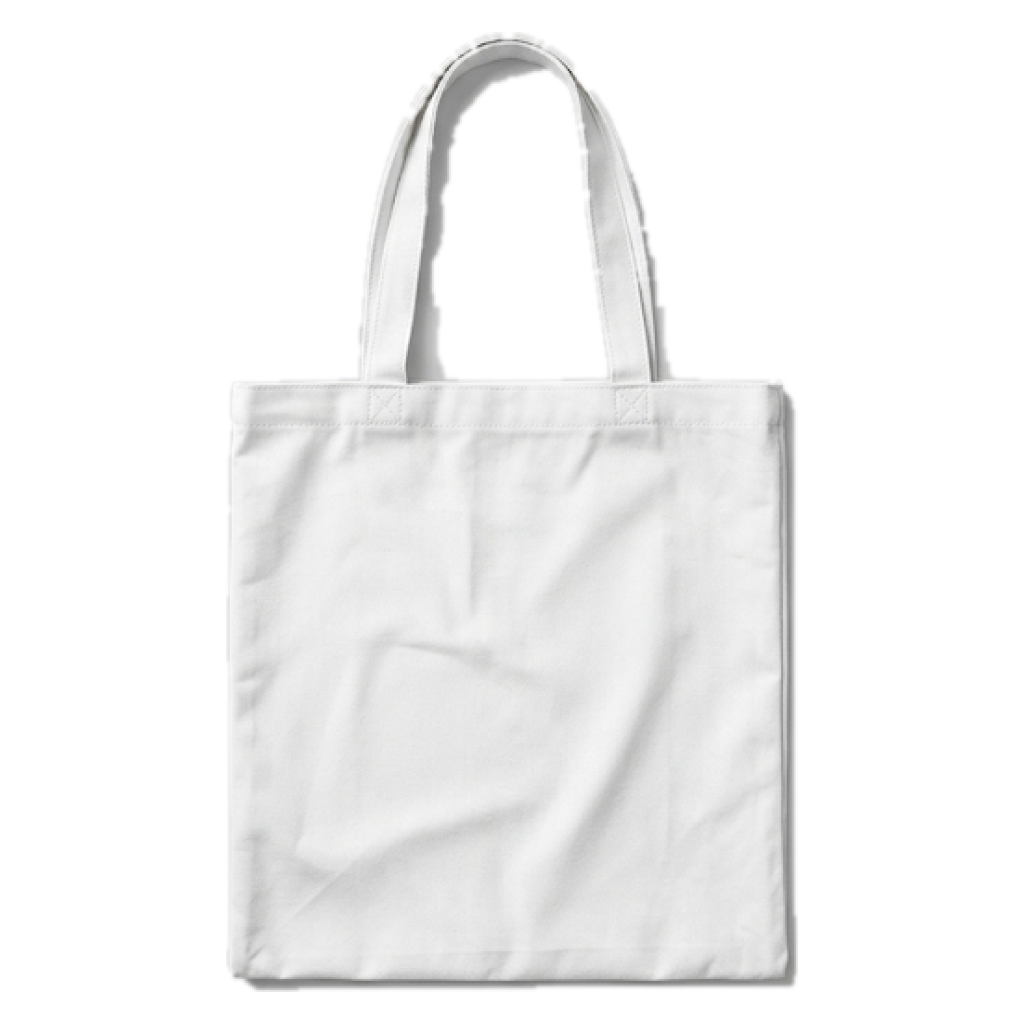
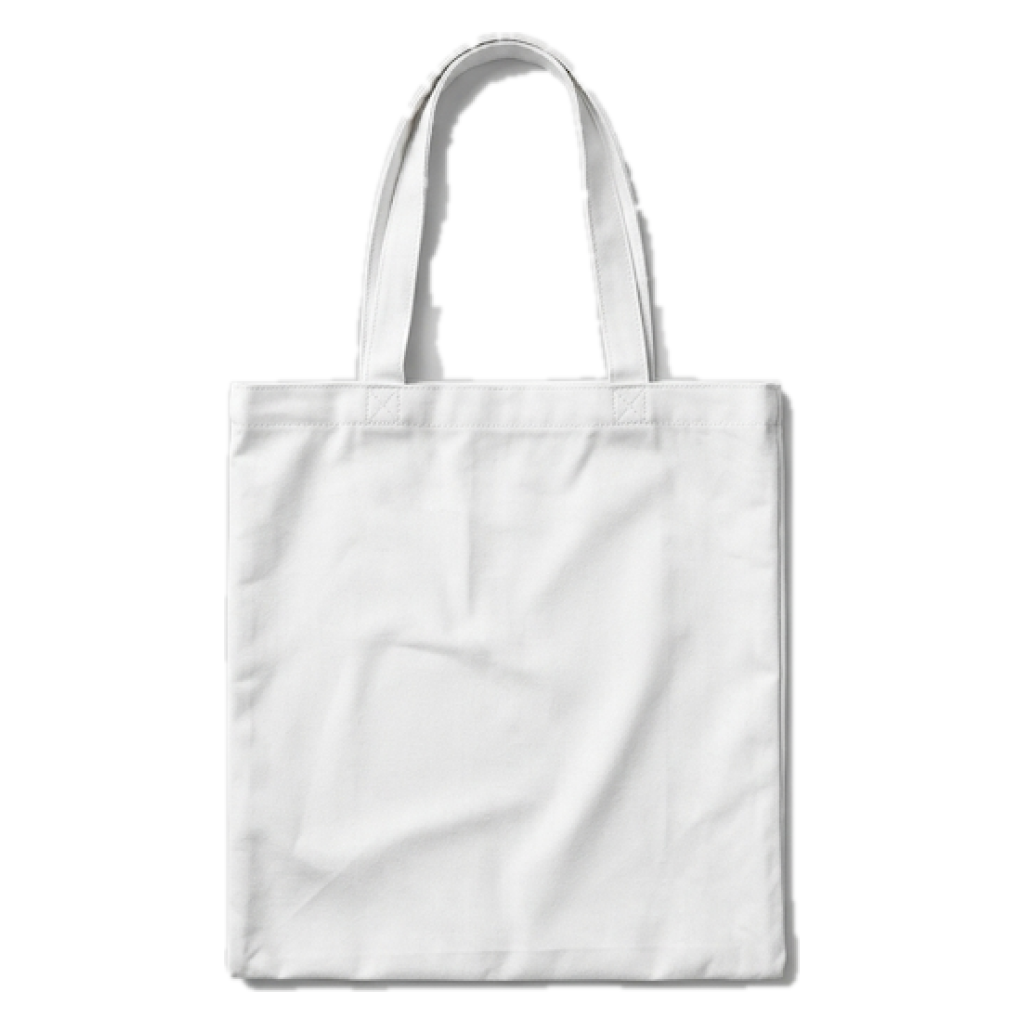
Studio: photo side views, raglan back, ringer front/back; remove.bg-guided cutouts
- Left/right sleeve views use the side photos for crew, pocket tees, henley,
  V-neck and polo, with colourable sleeve and cuff zones and a print guide.
- Raglan back and ringer front/back are photo views; no style relies on the
  drawn fallback any more.
- Cut-out script accepts remove.bg results ("<source>-removebg-preview.png" in
  Downloads or <source dir>/guides) as a guide to clear backdrop wedges while
  keeping its own full-resolution edges; backdrop tolerance tightened. Against
  the remove.bg reference the polo back matches 99.2% (hoodie front 98.6%).

diff --git a/lib/models/garment_style.dart b/lib/models/garment_style.dart
@@ -124,9 +124,6 @@ const _strap = ColorZone('strap', 'Strap', trim: false);
 const _handles = ColorZone('handles', 'Handles', trim: false);
 const _hem = ColorZone('hem', 'Top hem');
 
-StyleView _vFront(String id) => StyleView.vector(VectorGarments.front(id)!);
-StyleView _vBack(String id) => StyleView.vector(VectorGarments.back(id)!);
-
 final _crewFront = <String, ZonePath>{
   'sleeves': ZonePath(
     polygons: [
@@ -696,6 +693,120 @@ final _toteZones = <String, ZonePath>{
 
 const _dir = 'assets/images/garments';
 
+// ── Raglan back, ringer front, side views ───────────────────────────────────
+
+final _raglanBack = <String, ZonePath>{
+  'sleeves': _pair(_raglanL, 1024),
+  'cuffs': _pair(_raglanCuffL, 1024),
+  'collar': ZonePath(
+    polygons: [
+      [_o(376, 30), _o(632, 30), _o(640, 58), _o(512, 70), _o(372, 58)],
+    ],
+  ),
+};
+
+final _ringerSleeveFrontL = [
+  _o(215, 110),
+  _o(190, 140),
+  _o(83, 400),
+  _o(100, 425),
+  _o(256, 468),
+  _o(262, 380),
+  _o(255, 260),
+  _o(240, 170),
+];
+final _ringerCuffFrontL = [
+  _o(80, 385),
+  _o(258, 440),
+  _o(256, 478),
+  _o(98, 420),
+];
+final _ringerFront = <String, ZonePath>{
+  'sleeves': _pair(_ringerSleeveFrontL, 1027),
+  'cuffs': _pair(_ringerCuffFrontL, 1027),
+  'collar': ZonePath(ellipses: [(_o(508, 92), 130, 58)]),
+};
+
+// Side views: the visible sleeve and its hem, as seen from the wearer's left
+// (photos face left) and right (mirrored geometry).
+final _crewSleeveL = [
+  _o(455, 140),
+  _o(520, 115),
+  _o(600, 130),
+  _o(650, 185),
+  _o(645, 300),
+  _o(640, 405),
+  _o(600, 450),
+  _o(533, 462),
+  _o(470, 450),
+  _o(437, 420),
+  _o(430, 300),
+  _o(440, 200),
+];
+final _crewSideCuffL = [
+  _o(437, 415),
+  _o(470, 395),
+  _o(533, 388),
+  _o(600, 395),
+  _o(640, 405),
+  _o(640, 440),
+  _o(600, 458),
+  _o(533, 462),
+  _o(470, 455),
+  _o(437, 440),
+];
+final _poloSleeveL = [
+  _o(490, 160),
+  _o(545, 130),
+  _o(610, 150),
+  _o(625, 300),
+  _o(622, 420),
+  _o(560, 470),
+  _o(500, 480),
+  _o(462, 440),
+  _o(465, 300),
+];
+final _poloSideCuffL = [
+  _o(462, 410),
+  _o(560, 395),
+  _o(622, 415),
+  _o(622, 470),
+  _o(560, 485),
+  _o(500, 480),
+  _o(460, 450),
+];
+
+Map<String, ZonePath> _side(
+  List<Offset> sleeve,
+  List<Offset> cuff, {
+  bool mirror = false,
+  double sum = 1045,
+}) => {
+  'sleeves': ZonePath(polygons: [mirror ? _m(sleeve, sum) : sleeve]),
+  'cuffs': ZonePath(polygons: [mirror ? _m(cuff, sum) : cuff]),
+};
+
+Map<DesignSide, StyleView> _crewSides() => {
+  DesignSide.left: StyleView(
+    '$_dir/crew_left.png',
+    _side(_crewSleeveL, _crewSideCuffL),
+  ),
+  DesignSide.right: StyleView(
+    '$_dir/crew_right.png',
+    _side(_crewSleeveL, _crewSideCuffL, mirror: true),
+  ),
+};
+Map<DesignSide, StyleView> _poloSides() => {
+  DesignSide.left: StyleView(
+    '$_dir/polo_left.png',
+    _side(_poloSleeveL, _poloSideCuffL),
+  ),
+  DesignSide.right: StyleView(
+    '$_dir/polo_right.png',
+    _side(_poloSleeveL, _poloSideCuffL, mirror: true, sum: 1066),
+  ),
+};
+
 StyleView _crewBackView() => StyleView('$_dir/crew_back.png', _crewBack);
 
 Map<String, ZonePath> _withPockets(List<List<Offset>> pockets) => {
@@ -718,6 +829,7 @@ class GarmentStyles {
       views: {
         DesignSide.front: StyleView('$_dir/crew_front.png', _crewFront),
         DesignSide.back: _crewBackView(),
+        ..._crewSides(),
       },
     ),
     GarmentStyle(
@@ -731,6 +843,7 @@ class GarmentStyles {
           _withPockets([_pocketViewerRight]),
         ),
         DesignSide.back: _crewBackView(),
+        ..._crewSides(),
       },
     ),
     GarmentStyle(
@@ -744,6 +857,7 @@ class GarmentStyles {
           _withPockets([_pocketViewerLeft]),
         ),
         DesignSide.back: _crewBackView(),
+        ..._crewSides(),
       },
     ),
     GarmentStyle(
@@ -757,6 +871,7 @@ class GarmentStyles {
           _withPockets([_pocketViewerLeft, _pocketViewerRight]),
         ),
         DesignSide.back: _crewBackView(),
+        ..._crewSides(),
       },
     ),
     GarmentStyle(
@@ -768,6 +883,7 @@ class GarmentStyles {
         DesignSide.front: StyleView('$_dir/henley_front.png', _henleyFront),
         // No separate henley back photo: it is a plain crew back.
         DesignSide.back: _crewBackView(),
+        ..._crewSides(),
       },
     ),
     GarmentStyle(
@@ -778,6 +894,7 @@ class GarmentStyles {
       views: {
         DesignSide.front: StyleView('$_dir/polo_front.png', _poloFront),
         DesignSide.back: StyleView('$_dir/polo_back.png', _poloBack),
+        ..._poloSides(),
       },
     ),
     GarmentStyle(
@@ -788,6 +905,7 @@ class GarmentStyles {
       views: {
         DesignSide.front: StyleView('$_dir/vneck_front.png', _vneckFront),
         DesignSide.back: StyleView('$_dir/vneck_back.png', _vneckBack),
+        ..._crewSides(),
       },
     ),
     GarmentStyle(
@@ -808,7 +926,7 @@ class GarmentStyles {
       zones: const [_sleeves, _cuffs, _collar],
       views: {
         DesignSide.front: StyleView('$_dir/raglan_front.png', _raglanFront),
-        DesignSide.back: _vBack('raglan'),
+        DesignSide.back: StyleView('$_dir/raglan_back.png', _raglanBack),
       },
     ),
     GarmentStyle(
@@ -818,7 +936,7 @@ class GarmentStyles {
       defaultParts: const {'collar': '0xFF1A1F3C', 'cuffs': '0xFF1A1F3C'},
       zones: const [_sleeves, _cuffs, _collar],
       views: {
-        DesignSide.front: _vFront('ringer'),
+        DesignSide.front: StyleView('$_dir/ringer_front.png', _ringerFront),
         DesignSide.back: StyleView('$_dir/ringer_back.png', _ringerBack),
       },
     ),

diff --git a/lib/screens/studio/editor/canvas/design_canvas_painters.dart b/lib/screens/studio/editor/canvas/design_canvas_painters.dart
@@ -787,3 +787,44 @@ class VectorGarmentPainter extends CustomPainter {
       old.base != base ||
       !mapEquals(old.zoneColors, zoneColors);
 }
+
+/// Dashed print-area box, [area] given in the 1024-unit space of a style photo.
+class PrintGuidePainter extends CustomPainter {
+  final Rect area;
+  const PrintGuidePainter(this.area);
+
+  @override
+  void paint(Canvas canvas, Size size) {
+    final k = size.width / 1024;
+    final r = Rect.fromLTRB(
+      area.left * k,
+      area.top * k,
+      area.right * k,
+      area.bottom * k,
+    );
+    final paint = Paint()
+      ..color = Colors.black.withValues(alpha: 0.30)
+      ..style = PaintingStyle.stroke
+      ..strokeWidth = 1;
+    const dash = 6.0;
+    void edge(Offset a, Offset b) {
+      final total = (b - a).distance;
+      final dir = (b - a) / total;
+      for (double d = 0; d < total; d += dash * 2) {
+        canvas.drawLine(
+          a + dir * d,
+          a + dir * (d + dash).clamp(0, total).toDouble(),
+          paint,
+        );
+      }
+    }
+
+    edge(r.topLeft, r.topRight);
+    edge(r.topRight, r.bottomRight);
+    edge(r.bottomRight, r.bottomLeft);
+    edge(r.bottomLeft, r.topLeft);
+  }
+
+  @override
+  bool shouldRepaint(PrintGuidePainter old) => old.area != area;
+}

diff --git a/lib/screens/studio/editor/canvas/design_canvas.dart b/lib/screens/studio/editor/canvas/design_canvas.dart
@@ -136,12 +136,21 @@ class DesignCanvas extends StatelessWidget {
                 clipper: _ZoneClipper(entry.value.toPath(scale)),
                 child: tinted(_zoneColor(entry.key)!),
               ),
-          if (design.fabricFinish != 'solid')
+          if (design.fabricFinish != 'solid' && !side.isSleeve)
             IgnorePointer(
               child: CustomPaint(
                 painter: FabricFinishPainter(
                   garmentColor: _baseColor,
                   finish: design.fabricFinish,
+                ),
+              ),
+            ),
+          // Print-area guide on the sleeve photo (dashed box, editor only).
+          if (side.isSleeve && !bare)
+            IgnorePointer(
+              child: CustomPaint(
+                painter: PrintGuidePainter(
+                  const Rect.fromLTWH(485, 215, 125, 170),
                 ),
               ),
             ),

diff --git a/tools/build_garment_assets.py b/tools/build_garment_assets.py
@@ -20,6 +20,12 @@ OUT = Path(__file__).resolve().parent.parent / "assets" / "images" / "garments"
 CANVAS = 1024
 FIT = 960  # garment fits inside FIT x FIT, centred
 
+# Optional hand-checked cut-outs (e.g. from remove.bg) used as a guide: the
+# script keeps its own full-resolution edges but removes anything the guide
+# calls background (backdrop wedges between arms and torso). A guide for
+# "foo.png" is named "foo-removebg-preview.png" and may live in any of these.
+GUIDE_DIRS = [Path.home() / "Downloads", SRC / "guides"]
+
 # output name -> (source file, optional list of (x0,y0,x1,y1) patches to
 # inpaint away in the *source* image, e.g. to derive a plain tee from a
 # pocket tee).
@@ -40,6 +46,7 @@ for _name in (
     "raglan_front", "raglan_back", "ringer_front", "ringer_back",
     "tank_front", "tank_back", "hoodie_front", "hoodie_back",
     "cap_front", "cap_back", "tote_front", "tote_back",
+    "crew_left", "crew_right", "polo_left", "polo_right",
 ):
     if (SRC / f"{_name}.png").exists():
         JOBS[_name] = (f"{_name}.png", [])
@@ -50,7 +57,7 @@ WEDGES = {'longsleeve_front', 'longsleeve_back', 'raglan_front', 'hoodie_front',
 KEEP_HOLES = {"tote_front", "tote_back"}
 
 
-def drop_backdrop_slivers(work, fg, tol=6, band=48, anywhere_top=None):
+def drop_backdrop_slivers(work, fg, tol=4, band=48, anywhere_top=None):
     """GrabCut keeps wedges of backdrop between the arms and the torso.
     Fit the smooth backdrop brightness from clearly-outside pixels and drop any
     pixels of the mask that match it and are reachable from outside."""
@@ -82,15 +89,17 @@ def drop_backdrop_slivers(work, fg, tol=6, band=48, anywhere_top=None):
     return (fg & ~bgpix.astype(np.uint8)).astype(np.uint8)
 
 
-def cutout(img_bgr, slivers=False, fill_holes=True, top=None):
+def cutout(img_bgr, slivers=False, fill_holes=True, top=None, narrow=False):
     h, w = img_bgr.shape[:2]
     # The renders have a soft grey backdrop; the shirt sits in the middle.
     mask = np.full((h, w), cv2.GC_PR_BGD, np.uint8)
     m = int(min(h, w) * 0.03)
     mask[:m, :] = mask[-m:, :] = cv2.GC_BGD
     mask[:, :m] = mask[:, -m:] = cv2.GC_BGD
-    mask[int(h * .10):int(h * .95), int(w * .20):int(w * .80)] = cv2.GC_PR_FGD
-    mask[int(h * .30):int(h * .80), int(w * .38):int(w * .62)] = cv2.GC_FGD
+    # Side views are a narrow profile: keep the "probably shirt" box tight.
+    lo, hi = (.34, .66) if narrow else (.20, .80)
+    mask[int(h * .10):int(h * .95), int(w * lo):int(w * hi)] = cv2.GC_PR_FGD
+    mask[int(h * .30):int(h * .80), int(w * (.44 if narrow else .38)):int(w * (.56 if narrow else .62))] = cv2.GC_FGD
     bgd = np.zeros((1, 65)); fgd = np.zeros((1, 65))
     small = 1024 / max(h, w)
     work = cv2.resize(img_bgr, None, fx=small, fy=small, interpolation=cv2.INTER_AREA)
@@ -113,6 +122,22 @@ def cutout(img_bgr, slivers=False, fill_holes=True, top=None):
     return cv2.resize(alpha, (w, h), interpolation=cv2.INTER_LINEAR)
 
 
+def guide_alpha(src, shape):
+    """Alpha of the guide cut-out for source file [src], scaled to [shape], or None."""
+    h, w = shape
+    for d in GUIDE_DIRS:
+        f = d / f"{Path(src).stem}-removebg-preview.png"
+        if f.exists():
+            g = cv2.imread(str(f), cv2.IMREAD_UNCHANGED)
+            if g is None or g.ndim < 3 or g.shape[2] < 4:
+                continue
+            a = cv2.resize(g[:, :, 3], (w, h), interpolation=cv2.INTER_CUBIC)
+            # Trust "background" only a couple of guide pixels away from the edge.
+            k = max(3, int(round(w / g.shape[1] * 2)) | 1)
+            return cv2.dilate((a > 40).astype(np.uint8), np.ones((k, k), np.uint8))
+    return None
+
+
 def build(name, src, patches):
     # Backdrop wedges between arms and torso: crew/polo backs, and every later style.
     slivers = (name.endswith('_back') and name.split('_')[0] in ('crew', 'polo')) or name in WEDGES
@@ -131,7 +156,11 @@ def build(name, src, patches):
         pm = np.full(patch.shape[:2], 255, np.uint8)
         pm[:6, :] = pm[-6:, :] = pm[:, :6] = pm[:, -6:] = 0
         img = cv2.seamlessClone(patch, img, pm, ((x0 + x1) // 2, (y0 + y1) // 2), cv2.NORMAL_CLONE)
-    alpha = cutout(img, slivers, name not in KEEP_HOLES, 0.4 if name in KEEP_HOLES else None)
+    alpha = cutout(img, slivers, name not in KEEP_HOLES, 0.4 if name in KEEP_HOLES else None, name.endswith(('_left', '_right')))
+    guide = None if patches else guide_alpha(src, alpha.shape)
+    if guide is not None:
+        alpha = (alpha * guide).astype(np.uint8)
+        print('  guided by remove.bg cut-out')
     ys, xs = np.where(alpha > 20)
     x0, x1, y0, y1 = xs.min(), xs.max() + 1, ys.min(), ys.max() + 1
     crop = img[y0:y1, x0:x1]
